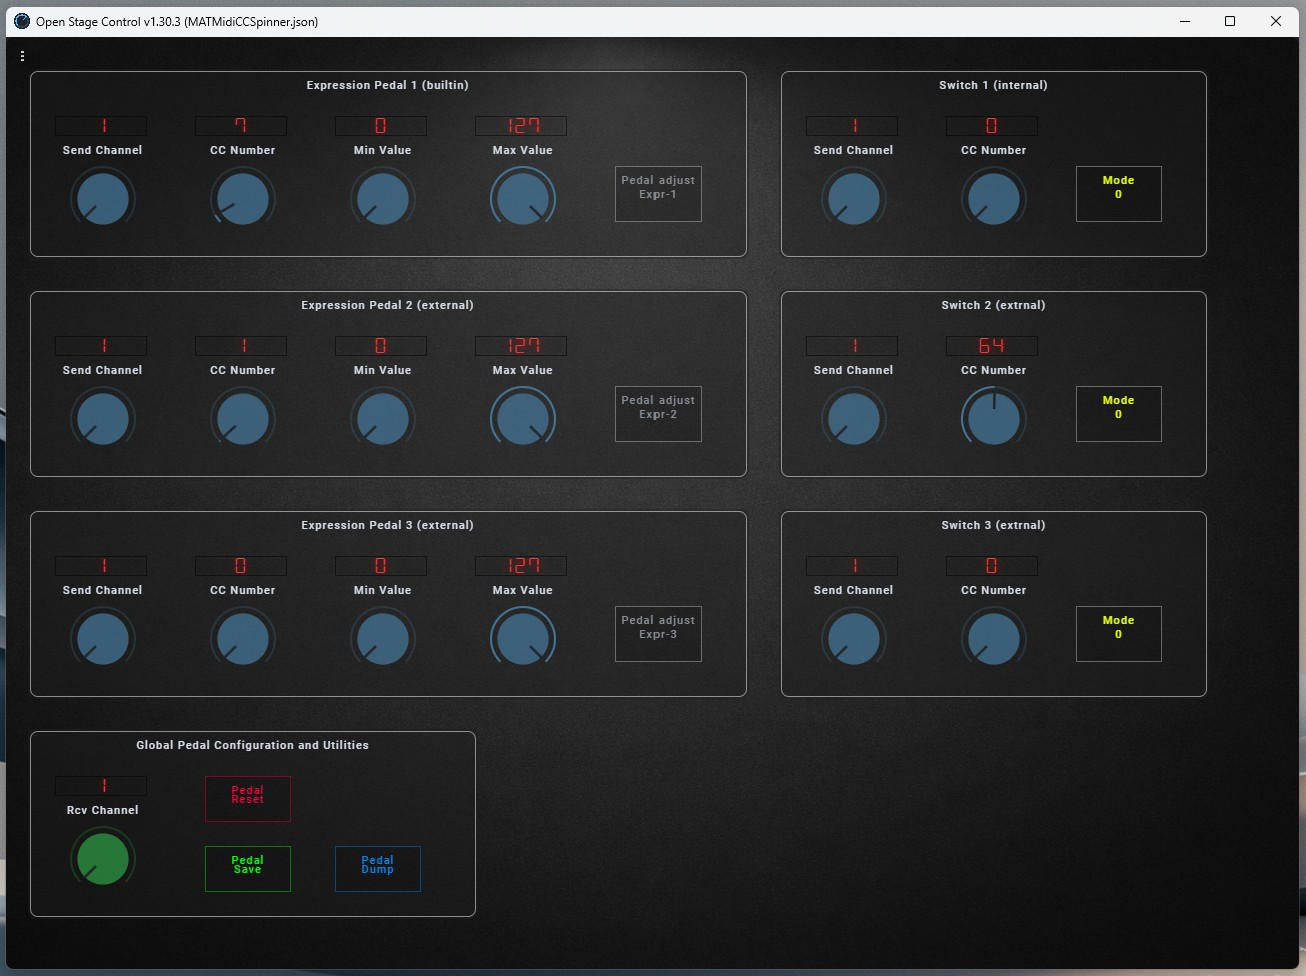
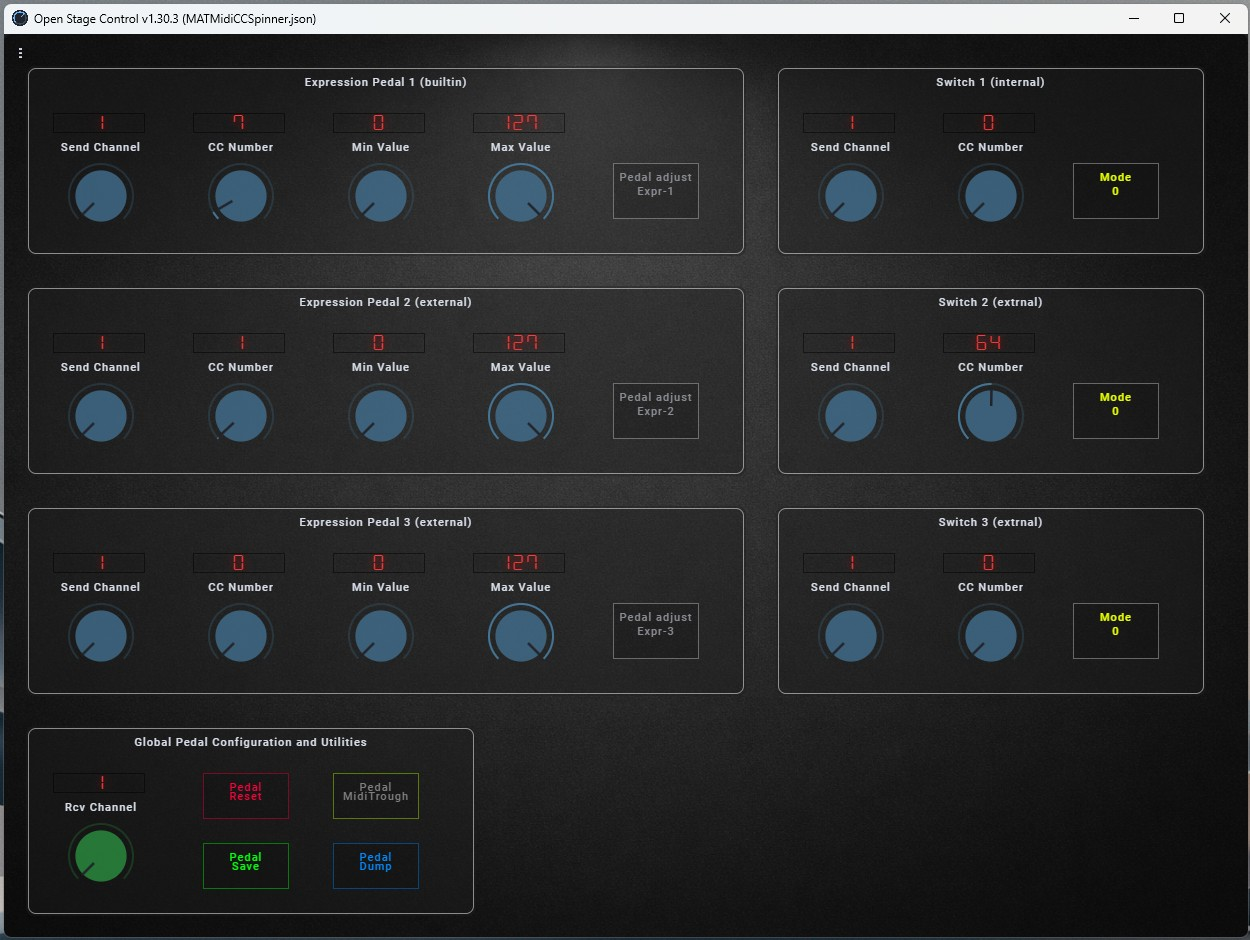
Added Midi through on/off CC; Fixed OSC path issue.

diff --git a/OSC/css/custom.css b/OSC/css/custom.css
@@ -1,6 +1,6 @@
 @font-face {
   font-family: 'DSEG7';
-  src: url('ressources/dseg7-classic-latin-400-normal.woff2') format('woff2');
+  src: url('resources/dseg7-classic-latin-400-normal.woff2') format('woff2');
   font-display: swap;
 }
 .SevenSeg textarea {

diff --git a/README.md b/README.md
@@ -208,6 +208,7 @@ cfg.receiveChannel
 
 | CC | Function |
 |---|---|
+|  99 | Midi Through: on = value == 127, off else |
 | 124 | Receive Channel |
 | 125 | Save / Reset |
 | 126 | Autosave Delay |